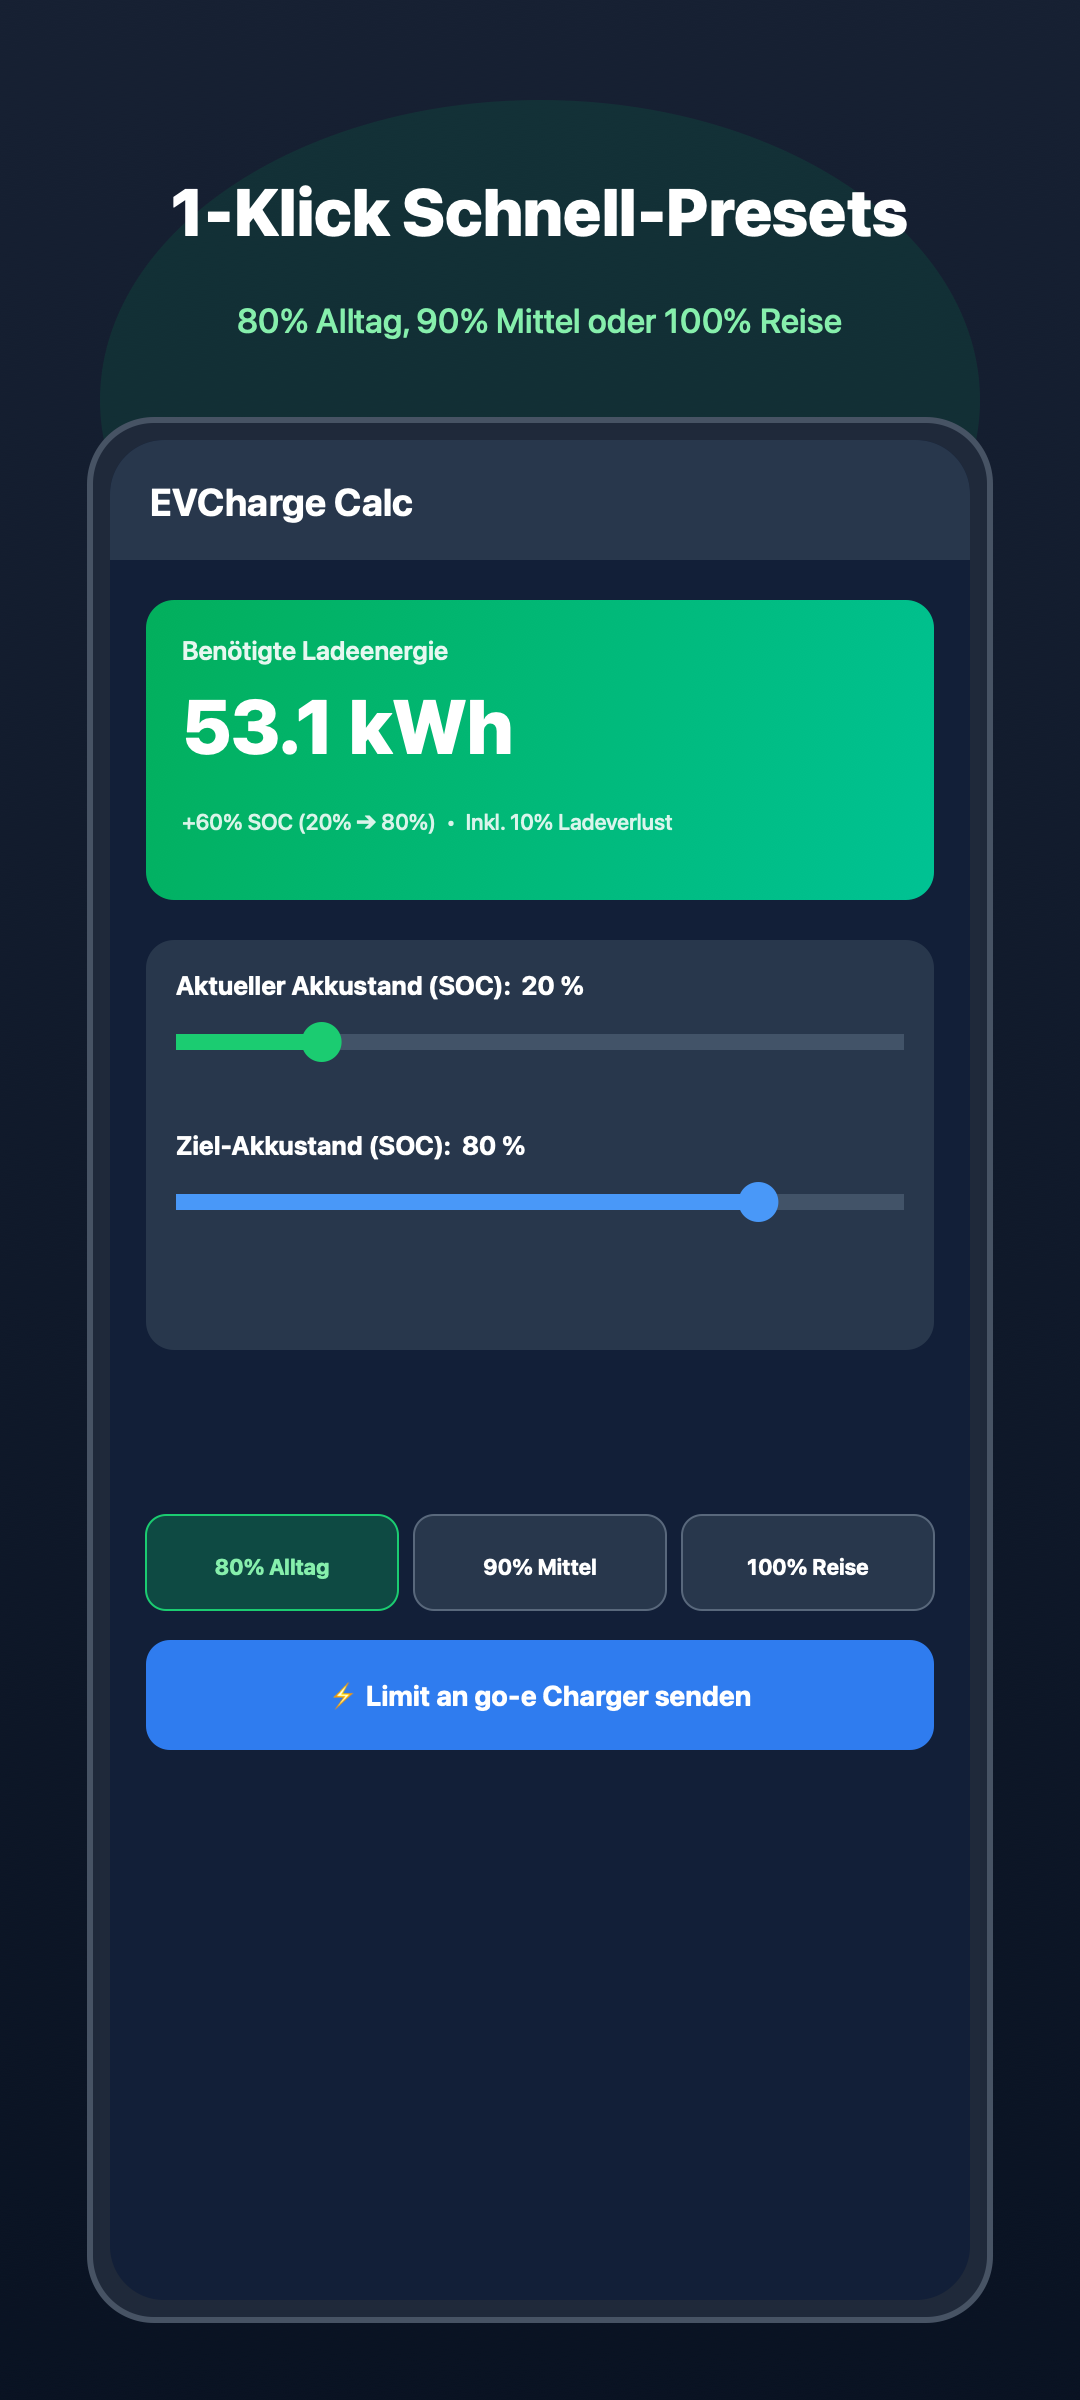
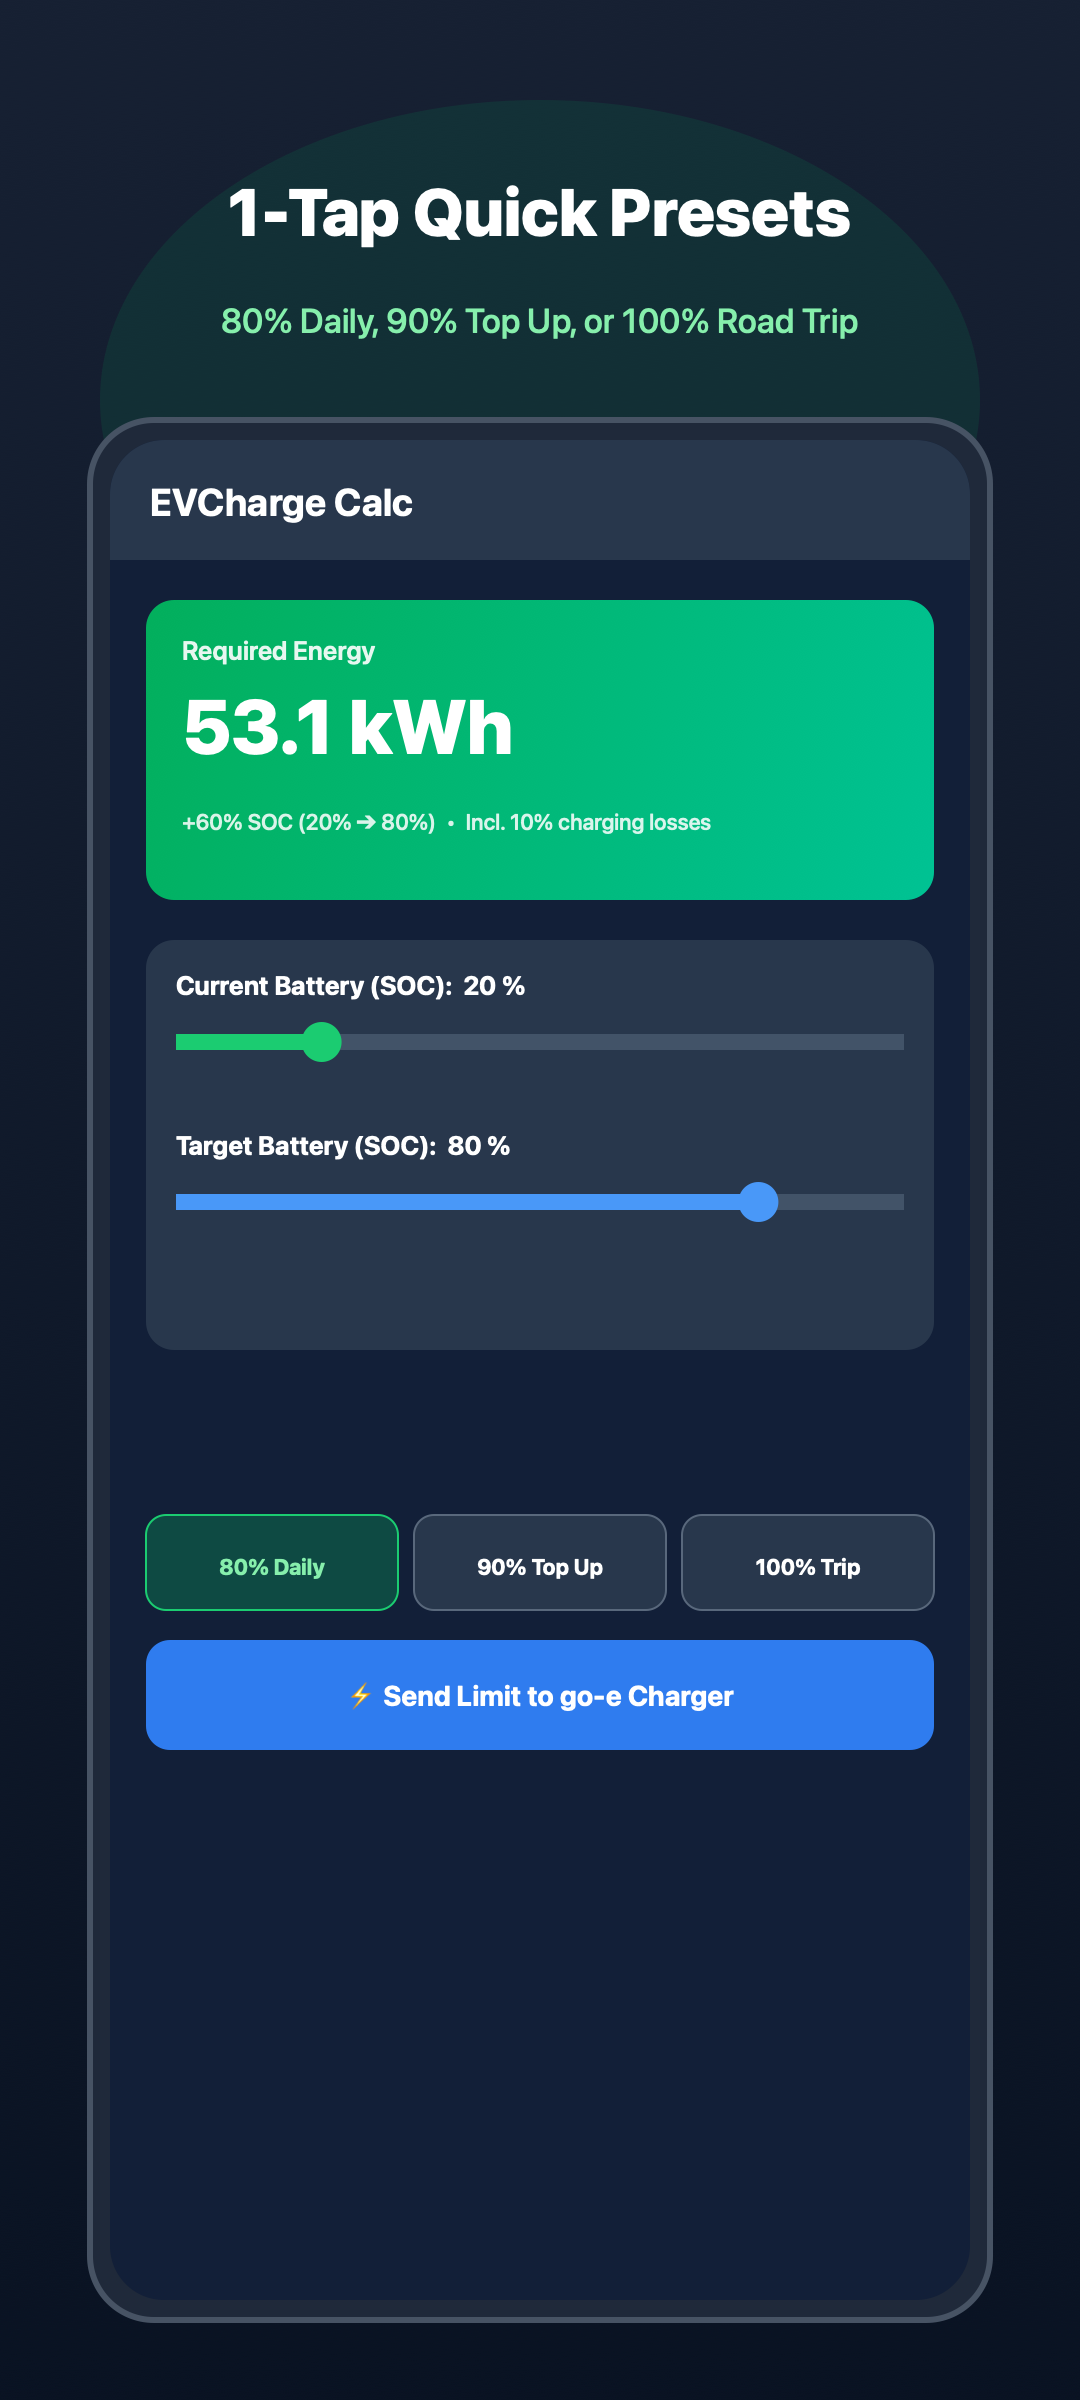
Update Play Store graphics and screenshots to English

diff --git a/playstore_assets/generate_assets.swift b/playstore_assets/generate_assets.swift
@@ -203,10 +203,7 @@ func generateFeatureGraphic() -> CGImage? {
     // Draw car & charger illustration on right
     drawCarAndCharger(context: ctx, centerX: 820, centerY: 240, size: 420)
     
-    // Render Titles on left using CoreText / Cocoa
-    let nsContext = NSGraphicsContext(cgContext: ctx, flipped: false)
-    NSGraphicsContext.current = nsContext
-    
+    // Feature graphic texts
     let title = "EV Charge Calc"
     let titleAttrs: [NSAttributedString.Key: Any] = [
         .font: NSFont.systemFont(ofSize: 58, weight: .bold),
@@ -214,14 +211,14 @@ func generateFeatureGraphic() -> CGImage? {
     ]
     (title as NSString).draw(at: NSPoint(x: 64, y: 285), withAttributes: titleAttrs)
     
-    let subtitle = "Präziser Ladelimit- & Energierechner"
+    let subtitle = "Smart EV Charging Energy & Limit Calculator"
     let subtitleAttrs: [NSAttributedString.Key: Any] = [
         .font: NSFont.systemFont(ofSize: 26, weight: .semibold),
         .foregroundColor: NSColor(red: 220/255.0, green: 252/255.0, blue: 231/255.0, alpha: 1.0)
     ]
     (subtitle as NSString).draw(at: NSPoint(x: 66, y: 235), withAttributes: subtitleAttrs)
     
-    let tag = "⚡ SOC-Zielwert  •  Akku-Degradation  •  go-e Charger Anbindung"
+    let tag = "⚡ Target SOC  •  Battery Health (SOH)  •  go-e Charger Integration"
     let tagAttrs: [NSAttributedString.Key: Any] = [
         .font: NSFont.systemFont(ofSize: 18, weight: .medium),
         .foregroundColor: NSColor(white: 1.0, alpha: 0.85)
@@ -310,7 +307,7 @@ func generateScreenshotCard(title: String, subtitle: String, screenType: Int) ->
     ctx.setFillColor(CGColor(red: 30/255.0, green: 41/255.0, blue: 59/255.0, alpha: 1.0))
     ctx.fill(CGRect(x: screenRect.minX, y: topBarY, width: screenRect.width, height: topBarH))
     
-    let appTitle = screenType == 3 ? "Einstellungen" : "EVCharge Calc"
+    let appTitle = screenType == 3 ? "Settings" : "EVCharge Calc"
     let appTitleAttrs: [NSAttributedString.Key: Any] = [
         .font: NSFont.systemFont(ofSize: 38, weight: .bold),
         .foregroundColor: NSColor.white
@@ -335,7 +332,7 @@ func generateScreenshotCard(title: String, subtitle: String, screenType: Int) ->
         ctx.drawLinearGradient(heroGrad, start: CGPoint(x: heroRect.minX, y: heroRect.maxY), end: CGPoint(x: heroRect.maxX, y: heroRect.minY), options: [])
         ctx.restoreGState()
         
-        let resLabel = "Benötigte Ladeenergie"
+        let resLabel = "Required Energy"
         let resLabelAttrs: [NSAttributedString.Key: Any] = [
             .font: NSFont.systemFont(ofSize: 26, weight: .semibold),
             .foregroundColor: NSColor(white: 1.0, alpha: 0.9)
@@ -349,7 +346,7 @@ func generateScreenshotCard(title: String, subtitle: String, screenType: Int) ->
         ]
         (energyValue as NSString).draw(at: NSPoint(x: heroRect.minX + 36, y: heroRect.maxY - 170), withAttributes: energyAttrs)
         
-        let energySub = screenType == 2 ? "+60% SOC (20% ➔ 80%)  •  Inkl. 10% Ladeverlust" : "+45% SOC (35% ➔ 80%)  •  Inkl. 10% Ladeverlust"
+        let energySub = screenType == 2 ? "+60% SOC (20% ➔ 80%)  •  Incl. 10% charging losses" : "+45% SOC (35% ➔ 80%)  •  Incl. 10% charging losses"
         let energySubAttrs: [NSAttributedString.Key: Any] = [
             .font: NSFont.systemFont(ofSize: 22, weight: .medium),
             .foregroundColor: NSColor(white: 1.0, alpha: 0.85)
@@ -363,7 +360,7 @@ func generateScreenshotCard(title: String, subtitle: String, screenType: Int) ->
         ctx.addPath(slidersPath)
         ctx.fillPath()
         
-        let curLabel = "Aktueller Akkustand (SOC):  20 %"
+        let curLabel = "Current Battery (SOC):  20 %"
         let curAttrs: [NSAttributedString.Key: Any] = [
             .font: NSFont.systemFont(ofSize: 26, weight: .bold),
             .foregroundColor: NSColor.white
@@ -377,7 +374,7 @@ func generateScreenshotCard(title: String, subtitle: String, screenType: Int) ->
         ctx.fill(CGRect(x: slidersRect.minX + 30, y: slidersRect.maxY - 110, width: (slidersRect.width - 60) * 0.2, height: 16))
         ctx.fillEllipse(in: CGRect(x: slidersRect.minX + 30 + (slidersRect.width - 60) * 0.2 - 20, y: slidersRect.maxY - 110 - 12, width: 40, height: 40))
         
-        let targetLabel = "Ziel-Akkustand (SOC):  80 %"
+        let targetLabel = "Target Battery (SOC):  80 %"
         (targetLabel as NSString).draw(at: NSPoint(x: slidersRect.minX + 30, y: slidersRect.maxY - 220), withAttributes: curAttrs)
         
         // Target SOC Slider Bar
@@ -390,7 +387,7 @@ func generateScreenshotCard(title: String, subtitle: String, screenType: Int) ->
         // Quick Presets Buttons
         let presetsY = slidersRect.minY - 260
         let presetW = (screenRect.width - 72 - 32) / 3
-        let presets = ["80% Alltag", "90% Mittel", "100% Reise"]
+        let presets = ["80% Daily", "90% Top Up", "100% Trip"]
         for (i, p) in presets.enumerated() {
             let pRect = CGRect(x: screenRect.minX + 36 + CGFloat(i) * (presetW + 16), y: presetsY, width: presetW, height: 95)
             let pPath = CGPath(roundedRect: pRect, cornerWidth: 20, cornerHeight: 20, transform: nil)
@@ -415,7 +412,7 @@ func generateScreenshotCard(title: String, subtitle: String, screenType: Int) ->
         ctx.addPath(wbPath)
         ctx.fillPath()
         
-        let wbText = "⚡ Limit an go-e Charger senden"
+        let wbText = "⚡ Send Limit to go-e Charger"
         let wbAttrs: [NSAttributedString.Key: Any] = [
             .font: NSFont.systemFont(ofSize: 28, weight: .bold),
             .foregroundColor: NSColor.white
@@ -426,10 +423,10 @@ func generateScreenshotCard(title: String, subtitle: String, screenType: Int) ->
     } else if screenType == 3 {
         // Settings Screen Mockup
         let items = [
-            ("Nettokapazität der Batterie", "77.0 kWh", "Nutzbare Kapazität Ihres Fahrzeugs"),
-            ("Akkugesundheit (SOH)", "96 %", "Berücksichtigt Batteriealterung"),
-            ("Ladeverluste (Wirkungsgrad)", "10 %", "Kompensiert Leitungs- & Wandlungsverlust"),
-            ("go-e Charger IP-Adresse", "192.168.1.150", "Lokale IP-Adresse der Wallbox im WLAN")
+            ("Usable Battery Capacity", "77.0 kWh", "Net battery capacity of your EV"),
+            ("State of Health (SOH)", "96 %", "Accounts for battery degradation over time"),
+            ("Charging Losses", "10 %", "Compensates for AC/DC conversion losses"),
+            ("go-e Charger IP Address", "192.168.1.150", "Local IP of your wallbox on home Wi-Fi")
         ]
         
         var curY = topBarY - 180
@@ -476,15 +473,15 @@ if let feature = generateFeatureGraphic() {
     saveCGImageAsPNG(cgImage: feature, path: "\(assetsDir)/feature_graphic_1024x500.png")
 }
 
-if let s1 = generateScreenshotCard(title: "Präzise Energieberechnung", subtitle: "Exakt die benötigten kWh für Ihr Ladeziel", screenType: 1) {
+if let s1 = generateScreenshotCard(title: "Precise Energy Calculation", subtitle: "Exact kWh required to reach your target SOC", screenType: 1) {
     saveCGImageAsPNG(cgImage: s1, path: "\(assetsDir)/screenshot_1_calculator.png")
 }
 
-if let s2 = generateScreenshotCard(title: "1-Klick Schnell-Presets", subtitle: "80% Alltag, 90% Mittel oder 100% Reise", screenType: 2) {
+if let s2 = generateScreenshotCard(title: "1-Tap Quick Presets", subtitle: "80% Daily, 90% Top Up, or 100% Road Trip", screenType: 2) {
     saveCGImageAsPNG(cgImage: s2, path: "\(assetsDir)/screenshot_2_presets.png")
 }
 
-if let s3 = generateScreenshotCard(title: "Fahrzeug & Akku anpassen", subtitle: "Batteriekapazität, SOH & Ladeverluste konfigurieren", screenType: 3) {
+if let s3 = generateScreenshotCard(title: "Custom EV Battery Settings", subtitle: "Configure usable capacity, SOH & charging losses", screenType: 3) {
     saveCGImageAsPNG(cgImage: s3, path: "\(assetsDir)/screenshot_3_settings.png")
 }
 
